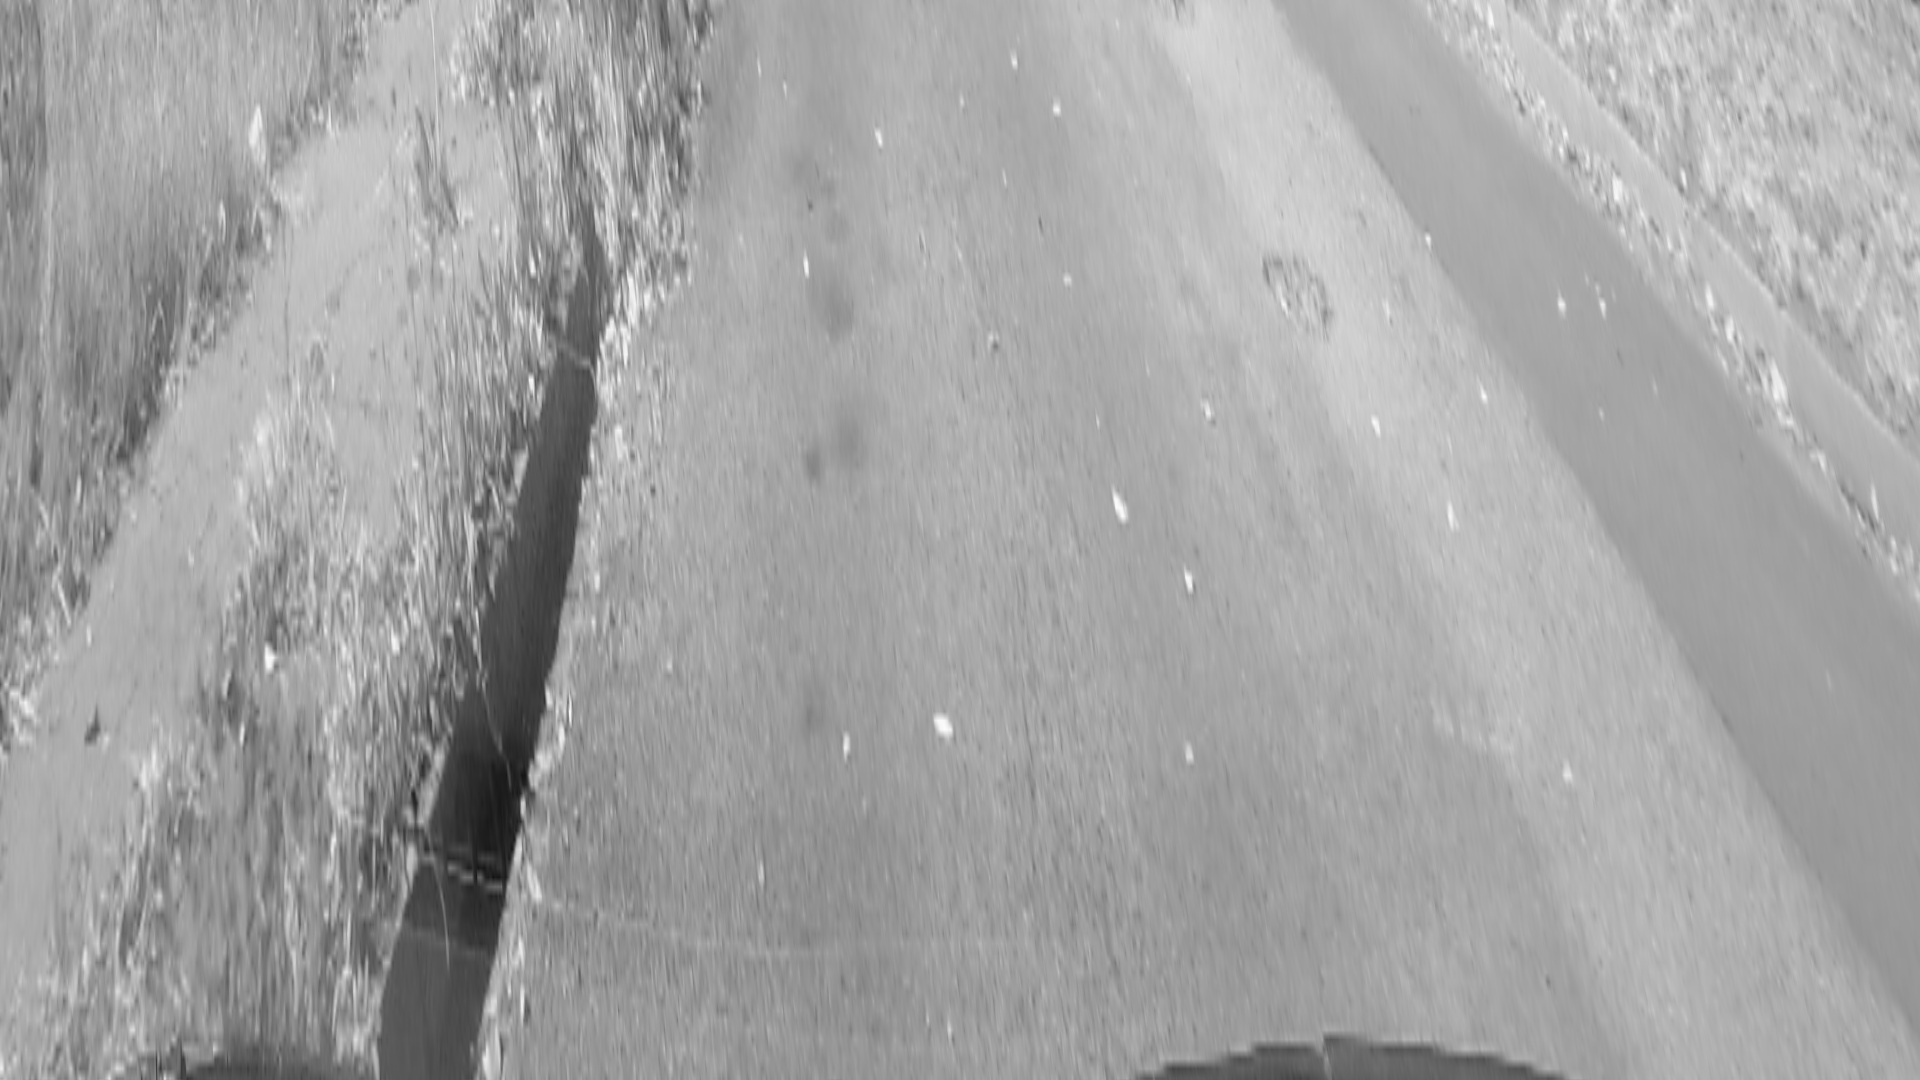
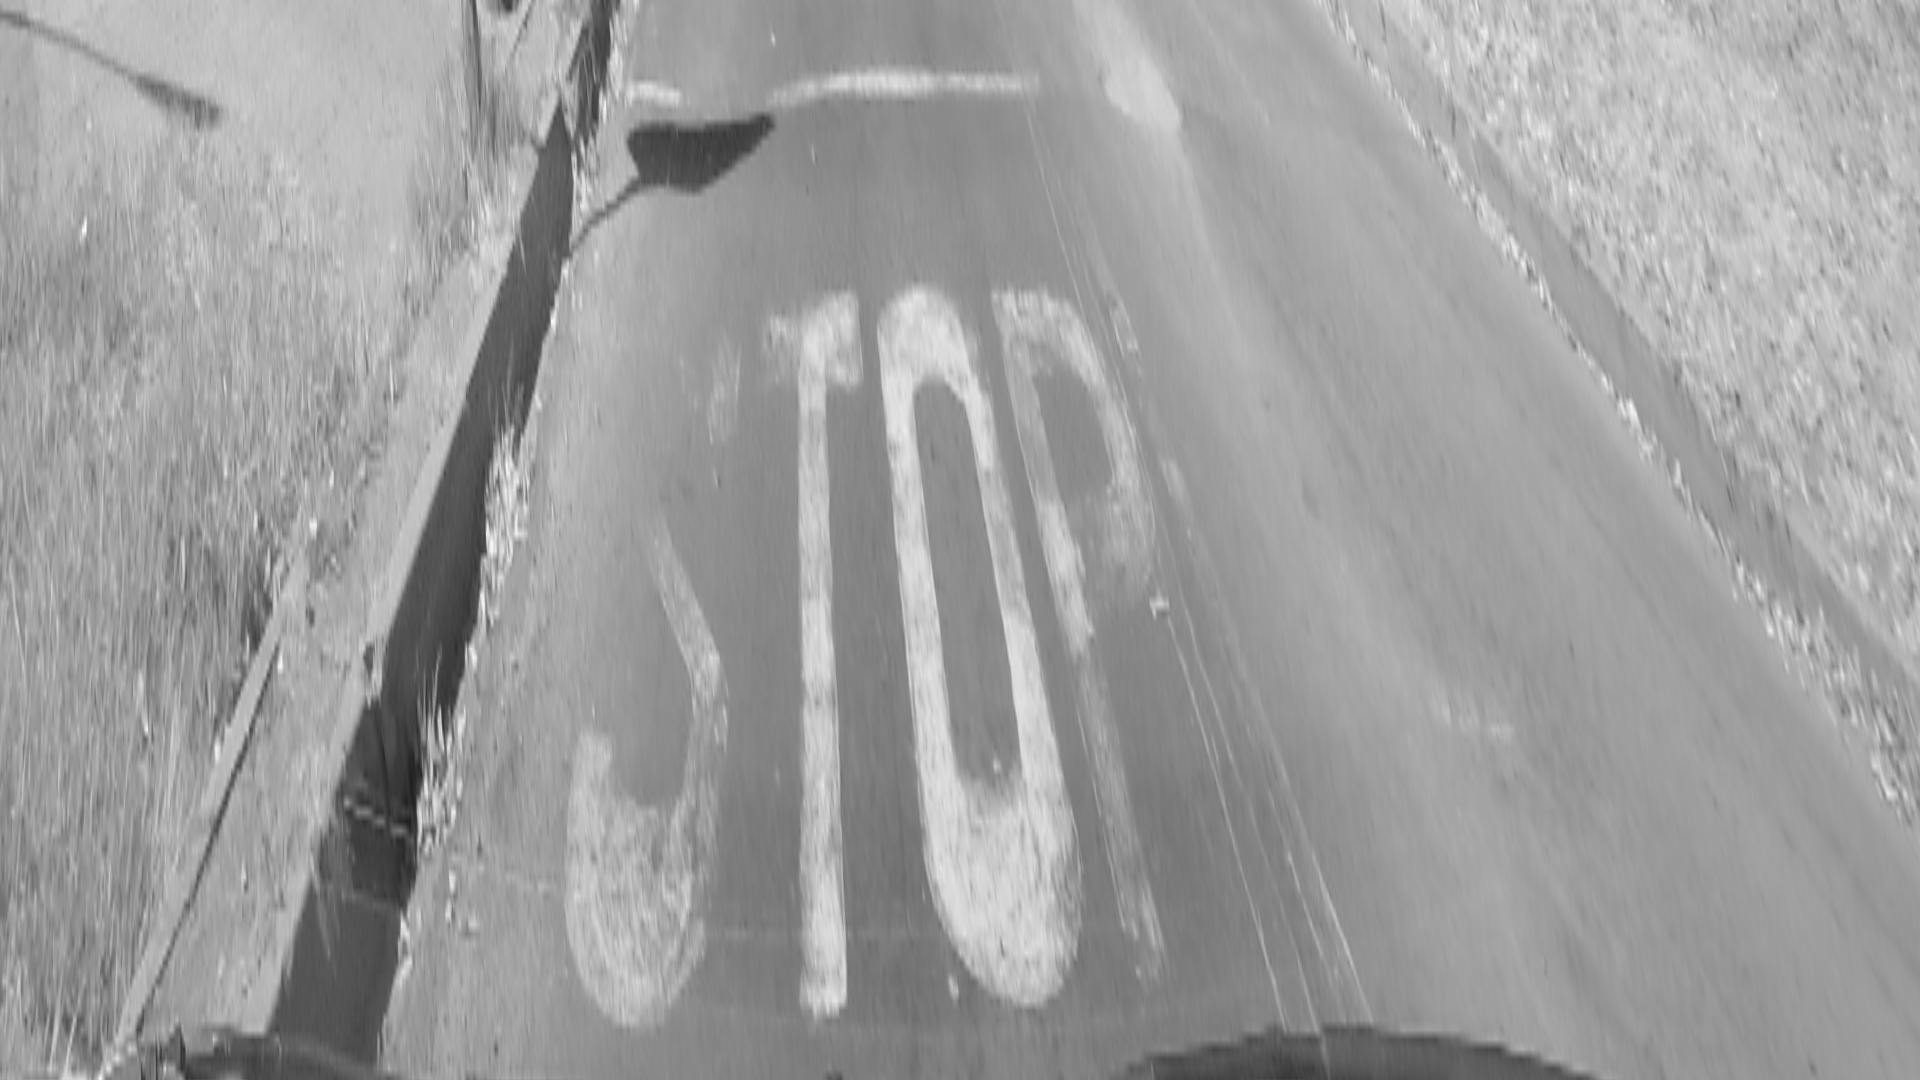
只留下校正

diff --git a/img_processing/process_images.py b/img_processing/process_images.py
@@ -5,12 +5,13 @@ import os
 def process_image(input_path, output_path):
     """讀取圖片、進行處理、存圖片"""
     try:
-        image = cv2.imread(input_path, cv2.IMREAD_GRAYSCALE)  # 直接讀取灰階圖片
+        #image = cv2.imread(input_path, cv2.IMREAD_GRAYSCALE)  # 直接讀取灰階圖片
+        image = cv2.imread(input_path)  # 保留彩色圖
         if image is None:
             print(f"⚠ 無法讀取 {input_path}")
             return False
 
-        # 處理圖片（視角校正 -> 光源校正）
+        # 處理圖片（僅視角校正）
         processed_image = processing(image)
 
         # 確保輸出資料夾存在
@@ -28,12 +29,11 @@ def process_image(input_path, output_path):
         print(f"❌ 發生錯誤：{e}")
         return False
 
-
 def processing(img):
-    """影像處理：視角校正 -> 光源校正"""
-    h, w = img.shape
+    """影像處理：僅進行視角校正"""
+    h, w = img.shape[:2]  # ✅ 改這裡，支援彩色圖片
 
-    # 1. **視角校正**
+    # 視角校正
     src_pts = np.float32([
         [w * 0.1, h * 0.55],  # 左上
         [w * 1.0, h * 0.55],  # 右上
@@ -43,25 +43,5 @@ def processing(img):
     dst_pts = np.float32([[0, 0], [w, 0], [0, h], [w, h]])
     matrix = cv2.getPerspectiveTransform(src_pts, dst_pts)
     corrected = cv2.warpPerspective(img, matrix, (w, h))
-    cv2.imwrite("step1_corrected.jpg", corrected)  # 保存中間結果
 
-    # 2. **光源校正**
-    clahe = cv2.createCLAHE(clipLimit=3.0, tileGridSize=(4, 4))  # 降低對比強度
-    illuminated = clahe.apply(corrected)  # 這裡修正為 `corrected`
-    cv2.imwrite("step2_illuminated.jpg", illuminated)  # 保存中間結果
-
-    return illuminated
-
-
-if __name__ == "__main__":
-    # 測試
-    input_image_path = "China_Drone_000048.jpg"  # 你的影像路徑
-    output_image_path = "output_illuminated.jpg"
-
-    success = process_image(input_image_path, output_image_path)
-
-    if success:
-        img = cv2.imread(output_image_path, cv2.IMREAD_GRAYSCALE)
-        cv2.imshow("Processed Image", img)
-        cv2.waitKey(0)
-        cv2.destroyAllWindows()
+    return corrected

diff --git a/img_processing/main.py b/img_processing/main.py
@@ -4,9 +4,9 @@ import time
 from process_images import process_image  # 引入處理函式
 
 # 設定輸入與輸出資料夾
-input_dir = "dataset/archive/pothole_dataset_v8/pothole_dataset_v8/train_to_valid/images/"  # 原始圖片資料夾
+input_dir = "../dataset/archive/pothole_dataset_v8/pothole_dataset_v8/train_to_valid/images/"  # 原始圖片資料夾
 
-output_dir = f"dataset/Processed/{time.strftime('%Y%m%d_%H%M%S')}/"  # 處理後圖片的資料夾
+output_dir = f"../dataset/Processed/{time.strftime('%Y%m%d_%H%M%S')}/"  # 處理後圖片的資料夾
 os.makedirs(output_dir, exist_ok=True)  # 資料夾不在就生一個
 
 # 找出所有圖片檔案
